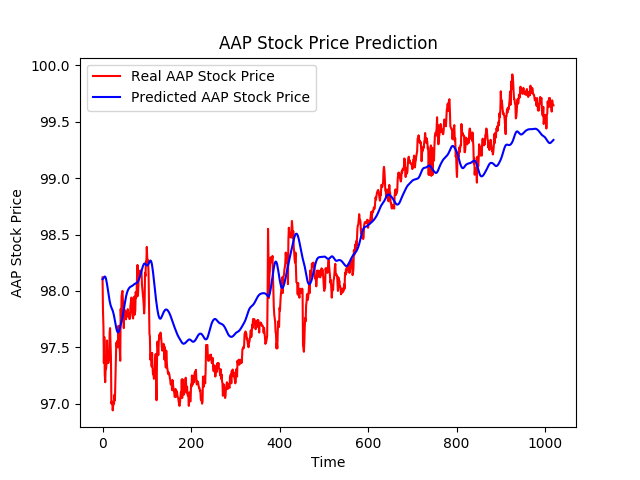
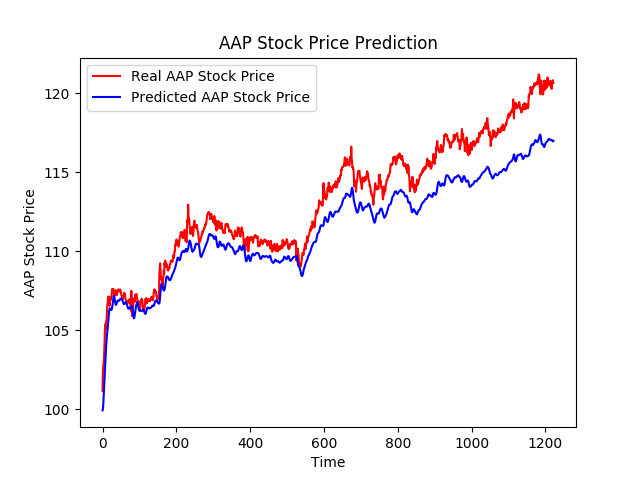
various updates

diff --git a/src/RNN/LSTM_multi.py b/src/RNN/LSTM_multi.py
@@ -1,0 +1,102 @@
+from keras.models import Sequential
+from keras.layers import Dense, LSTM, Dropout
+import matplotlib.pyplot as plt
+import pandas as pd
+import numpy as np
+from sklearn.preprocessing import MinMaxScaler
+from sklearn.metrics import zero_one_loss
+from utils import minutizer, combine_ts
+
+
+def lstm_model(stocks: list,
+               lookback: int = 12,
+               epochs: int = 10):
+    # Import data
+    data = minutizer(combine_ts(stocks), split=5)
+    header = list(data)
+
+    # Transform data
+    n, d = data.shape
+    train_val_test_split = {'train': 0.7, 'val': 0.85, 'test': 1}
+
+    y_data = np.zeros((n, int(d/5)))
+    for i in range(int(d/5)):
+        y_data[:, i] = data.values[:, 5 * i]
+        data = data.drop(columns=header[3 + 5 * i])  # 3 corresponds to open price, which is removed.
+    sc_y = MinMaxScaler(feature_range=(0, 1))
+    sc_x = MinMaxScaler(feature_range=(0, 1))
+    data_set_scaled_y = sc_y.fit_transform(y_data)
+    data_set_scaled_x = sc_x.fit_transform(data)
+
+    X = np.zeros((n - lookback, lookback, d - int(d/5)))
+    Y = np.zeros((n - lookback, int(d/5)))
+    for i in range(X.shape[0]):
+        for j in range(d-int(d/5)):
+            X[i, :, j] = data_set_scaled_x[i:(i+lookback), j]
+        Y[i, :] = data_set_scaled_y[i, :]
+
+    X_train = X[0: int(n * train_val_test_split['train'])]
+    y_train = Y[0: int(n * train_val_test_split['train'])]
+
+    X_val = X[int(n*train_val_test_split['train']): int(n*train_val_test_split['val'])]
+    y_val = Y[int(n*train_val_test_split['train']): int(n*train_val_test_split['val'])]
+
+
+    # Initialising the RNN
+    model = Sequential()
+
+    # Adding layers. LSTM(25) --> Dropout(0.2) x 4
+    model.add(LSTM(units=25, return_sequences=True, input_shape=(X_train.shape[1], d - int(d/5))))
+    model.add(Dropout(0.2))
+
+    model.add(LSTM(units=25, return_sequences=True))
+    model.add(Dropout(0.2))
+
+    model.add(LSTM(units=25, return_sequences=True))
+    model.add(Dropout(0.2))
+
+    model.add(LSTM(units=25))
+    model.add(Dropout(0.2))
+
+    # Output layer
+    model.add(Dense(units=int(d/5)))
+
+    # Run
+    model.compile(optimizer='adam', loss='mean_squared_error')
+
+    # Fitting the RNN to the Training set
+    model.fit(X_train, y_train, epochs=epochs, batch_size=32)
+
+    # Validate
+    predicted_stock_price = sc_y.inverse_transform(model.predict(X_val))
+    real_stock_price = sc_y.inverse_transform(y_val)
+
+    # Plot
+    for i in range(int(d/5)):
+        predict = predicted_stock_price[:, i]
+        real = real_stock_price[:, i]
+        stock = stocks[i]
+        plt.plot(real, color='red', label='Real '+stock+' Stock Price')
+        plt.plot(predict, color='blue', label='Predicted '+stock+' Stock Price')
+        plt.title(stock+' Stock Price Prediction')
+        plt.xlabel('Time')
+        plt.ylabel(stock+' Stock Price')
+        plt.legend()
+        plt.savefig('../output/RNN_results/LSTM_'+stock+'.png')
+        plt.close()
+
+        np.save('../output/RNN_results/LSTM_'+stock+'_predictions', predict)
+
+        # 0-1 loss and mean
+        y_binary_hat = predict[1: predict.shape[0]]/real[0: (predict.shape[0]-1)] - 1
+        y_binary = real[1: predict.shape[0]]/real[0: (predict.shape[0]-1)] - 1
+
+        y_binary[y_binary > 0] = 1
+        y_binary[y_binary < 0] = 0
+
+        y_binary_hat[y_binary_hat > 0] = 1
+        y_binary_hat[y_binary_hat < 0] = 0
+
+        print(stock+' Val set mean:', np.mean(y_binary))
+        print(stock+' Zero-One loss:', min(zero_one_loss(y_binary, y_binary_hat), 1-zero_one_loss(y_binary, y_binary_hat)))
+        print(stock+' Mean squared error:', sum((real-predict)**2)/predict.shape[0])

diff --git a/src/RNN/LSTM.py b/src/RNN/LSTM.py
@@ -5,36 +5,37 @@ import pandas as pd
 import numpy as np
 from sklearn.preprocessing import MinMaxScaler
 from sklearn.metrics import zero_one_loss
+from utils import minutizer
 
 
 def lstm_model(stock,
-               lookback: int = 60,
-               epochs: int = 10):
+               lookback: int = 12,
+               epochs: int = 30):
     # Import data
     path = '../data/top_stocks/'+stock+'.csv'
-    data = pd.read_csv(path, index_col="timestamp", parse_dates=True)
+    data = minutizer(pd.read_csv(path, index_col="timestamp", parse_dates=True), split=5)
     print(data.head())
 
     # Transform data
     n, d = data.shape
-    train_val_test_split = {'train': 0.1, 'val': 0.125, 'test': 1}
+    train_val_test_split = {'train': 0.7, 'val': 0.85, 'test': 1}
     sc = MinMaxScaler(feature_range=(0, 1))
     data_set_scaled = sc.fit_transform(data)
     X_close = []
     X_high = []
     X_low = []
-    X_open = []
+    #X_open = []
     X_vol = []
     Y = []
     for i in range(lookback, len(data_set_scaled)):
         X_close.append(data_set_scaled[(i-lookback):i, 0])
         X_high.append(data_set_scaled[(i - lookback):i, 1])
         X_low.append(data_set_scaled[(i - lookback):i, 2])
-        X_open.append(data_set_scaled[(i - lookback):i, 3])
+        #X_open.append(data_set_scaled[(i - lookback):i, 3])
         X_vol.append(data_set_scaled[(i - lookback):i, 4])
         Y.append(data_set_scaled[i, 0])
     Y = np.array(Y)
-    X = np.stack((np.array(X_close), np.array(X_high), np.array(X_low), np.array(X_open), np.array(X_vol)), axis=2)
+    X = np.stack((np.array(X_close), np.array(X_high), np.array(X_low), np.array(X_vol)), axis=2)
 
     X_train = X[0: int(n * train_val_test_split['train'])]
     y_train = Y[0: int(n * train_val_test_split['train'])]
@@ -46,17 +47,17 @@ def lstm_model(stock,
     # Initialising the RNN
     model = Sequential()
 
-    # Adding layers. LSTM(50) --> Dropout(0.2) x 4
-    model.add(LSTM(units=50, return_sequences=True, input_shape=(X_train.shape[1], d)))
+    # Adding layers. {LSTM(50) --> Dropout(0.2)} x 4
+    model.add(LSTM(units=25, return_sequences=True, input_shape=(X_train.shape[1], d-1)))
     model.add(Dropout(0.2))
 
-    model.add(LSTM(units=50, return_sequences=True))
+    model.add(LSTM(units=25, return_sequences=True))
     model.add(Dropout(0.2))
 
-    model.add(LSTM(units=50, return_sequences=True))
+    model.add(LSTM(units=25, return_sequences=True))
     model.add(Dropout(0.2))
 
-    model.add(LSTM(units=50))
+    model.add(LSTM(units=25))
     model.add(Dropout(0.2))
 
     # Output layer

diff --git a/src/utils.py b/src/utils.py
@@ -109,3 +109,16 @@ def combine_ts(tickers: list):
         data = pd.concat([data, new_data], axis=1, sort=True)
     tickers.append(stock0)
     return data.interpolate()[1:data.shape[0]]
+
+
+def minutizer(data, split: int = 5):
+    n, d = data.shape
+    new_data = pd.DataFrame(np.zeros((int(n/split), d)), columns=list(data))
+    for i in range(int(n/split)):
+        for j in range(int(d/5)):
+            new_data.iloc[i, j * split] = data.iloc[split * (i + 1), j * split]
+            new_data.iloc[i, j * split + 1] = max([data.iloc[split*i+k, j * split + 1] for k in range(split)])
+            new_data.iloc[i, j * split + 2] = max([data.iloc[split * i + k, j * split + 2] for k in range(split)])
+            new_data.iloc[i, j * split + 3] = data.iloc[split*i, j * split + 3]
+            new_data.iloc[i, j * split + 4] = np.sum(data.iloc[i*split:(i+1)*split, j * split + 4])
+    return new_data

diff --git a/src/ARIMA/ARIMA.py b/src/ARIMA/ARIMA.py
@@ -1,14 +1,14 @@
 from statsmodels.tsa.statespace.varmax import VARMAX
-from utils import combine_ts
+from utils import combine_ts, minutizer
 import matplotlib.pyplot as plt
 
 # Get data
-tickers = ['AAP', 'CRM']
-data = combine_ts(tickers)
+tickers = ['AAP', 'MRK', 'NRG', 'ORLY']
+data = minutizer(combine_ts(tickers))
 n, _ = data.shape
 
 # Split data
-train_val_test_split = {'train': 0.07, 'val': 0.085, 'test': 1}
+train_val_test_split = {'train': 0.5, 'val': 0.65, 'test': 1}
 train_data = data[0: int(n*train_val_test_split['train'])]
 val_data = data[int(n*train_val_test_split['train']): int(n*train_val_test_split['val'])]
 

diff --git a/src/RNN/lstm_train.py b/src/RNN/lstm_train.py
@@ -1,2 +1,5 @@
+
 from RNN.LSTM import lstm_model
-test = lstm_model('AAP', epochs=1)
+#stocks = ['AAP', 'CRM']
+stocks = 'AAP'
+test = lstm_model(stocks, epochs=30)
